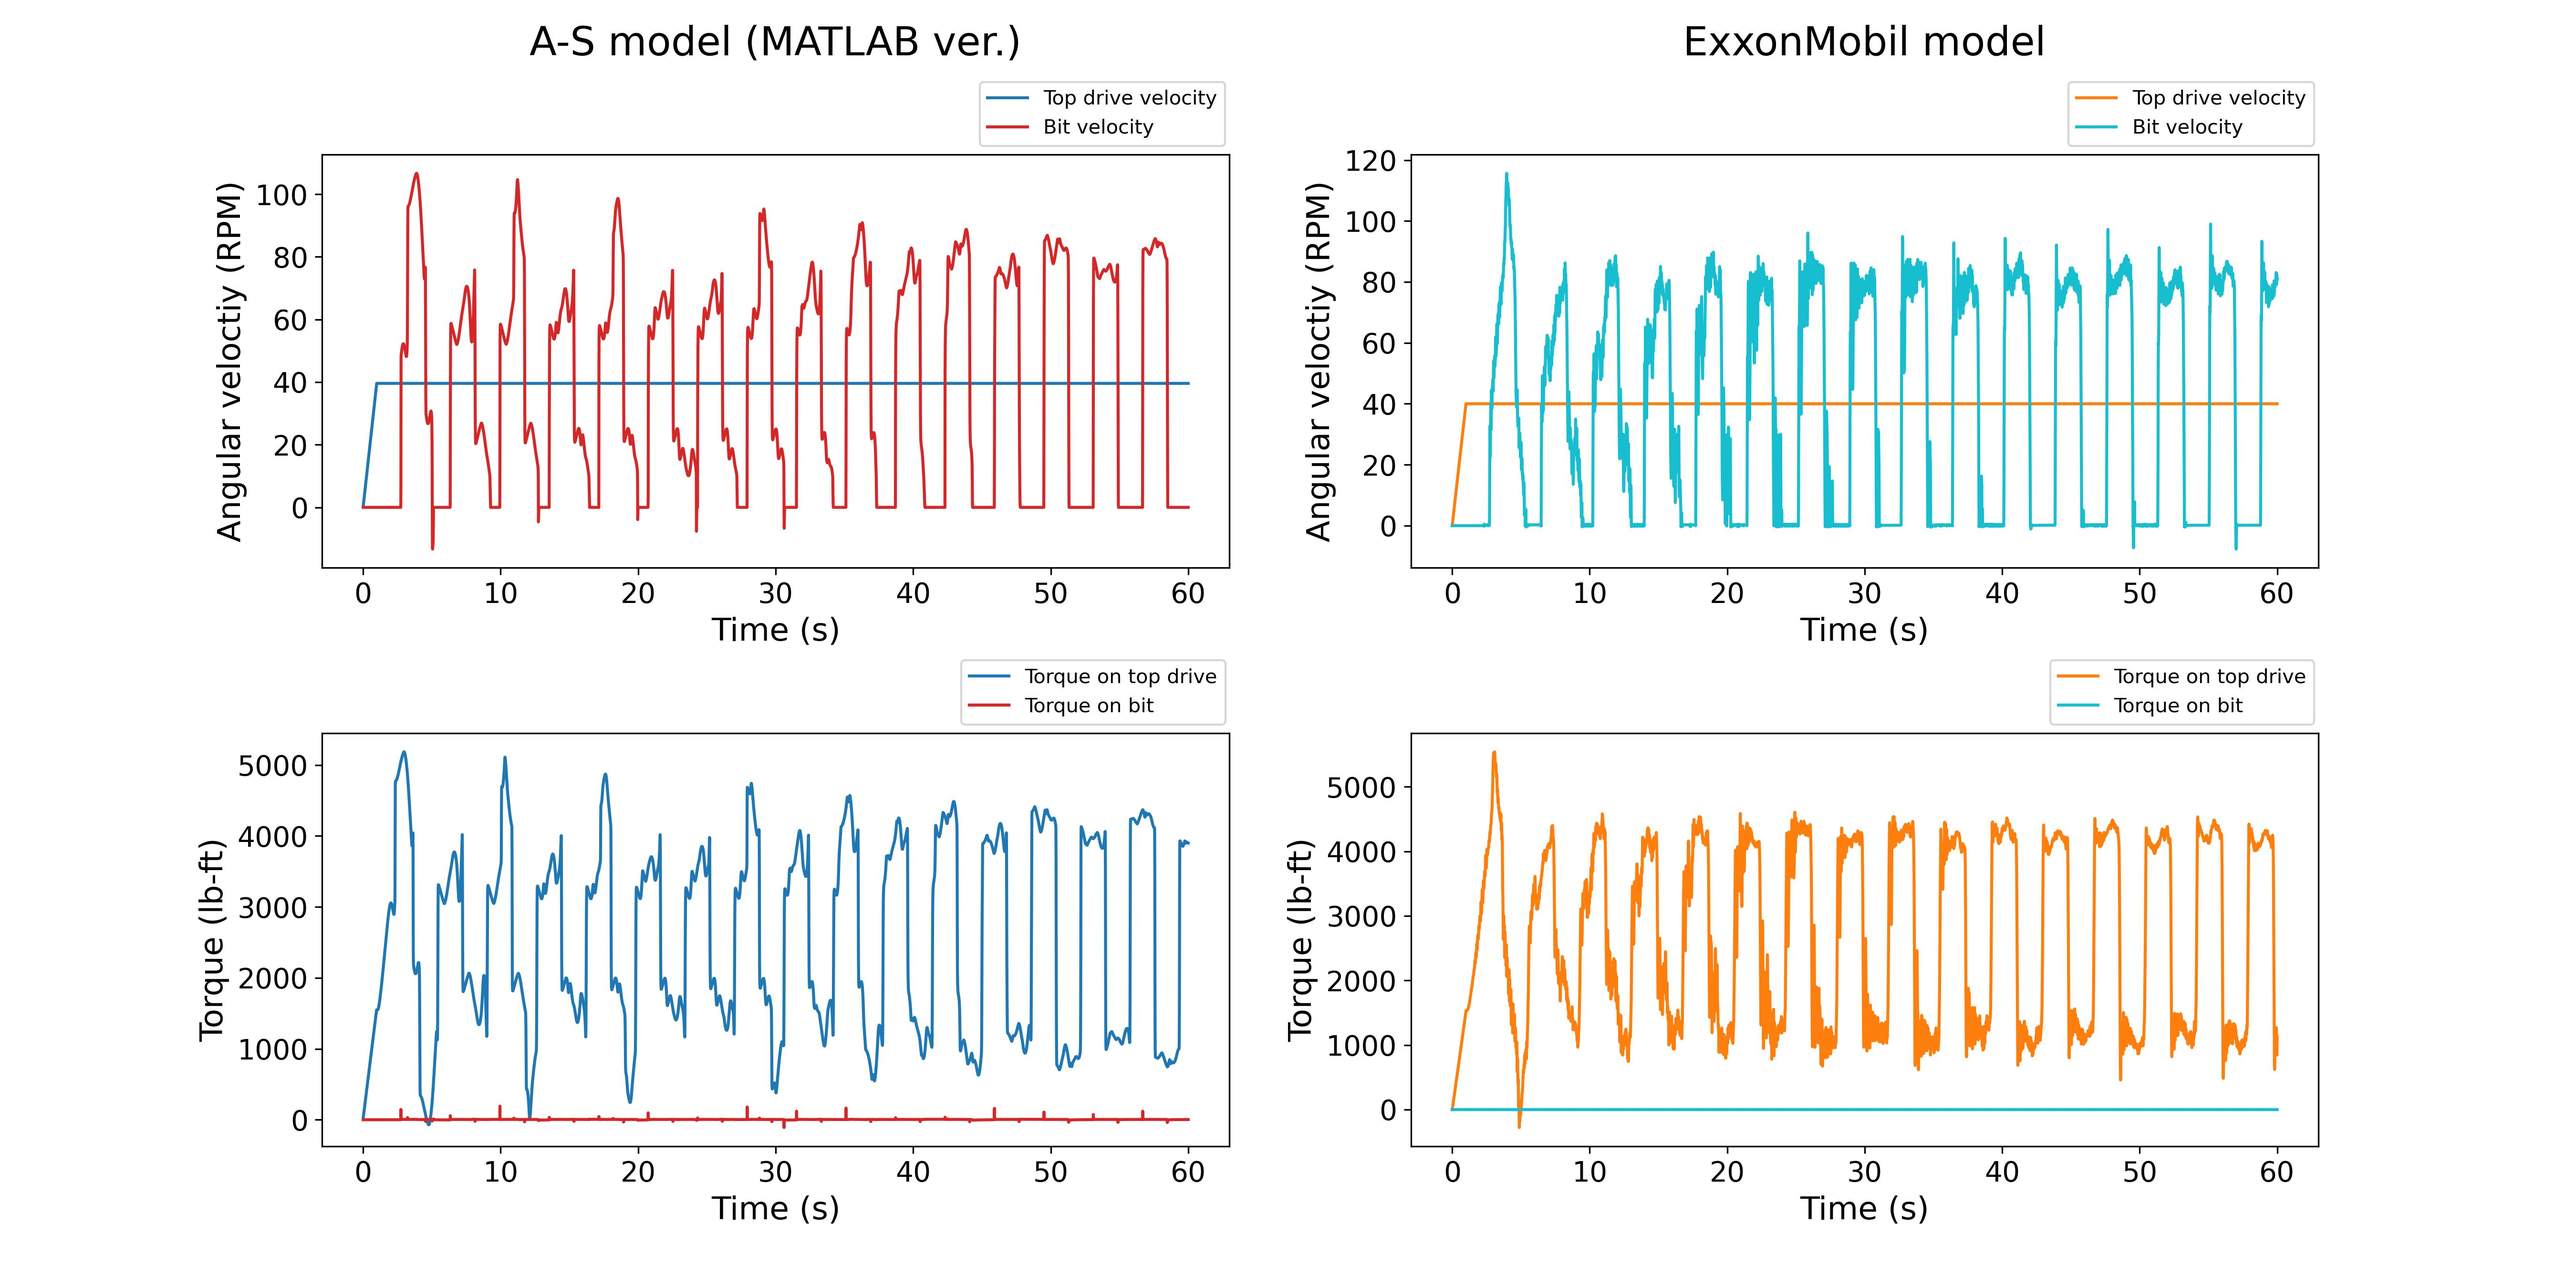
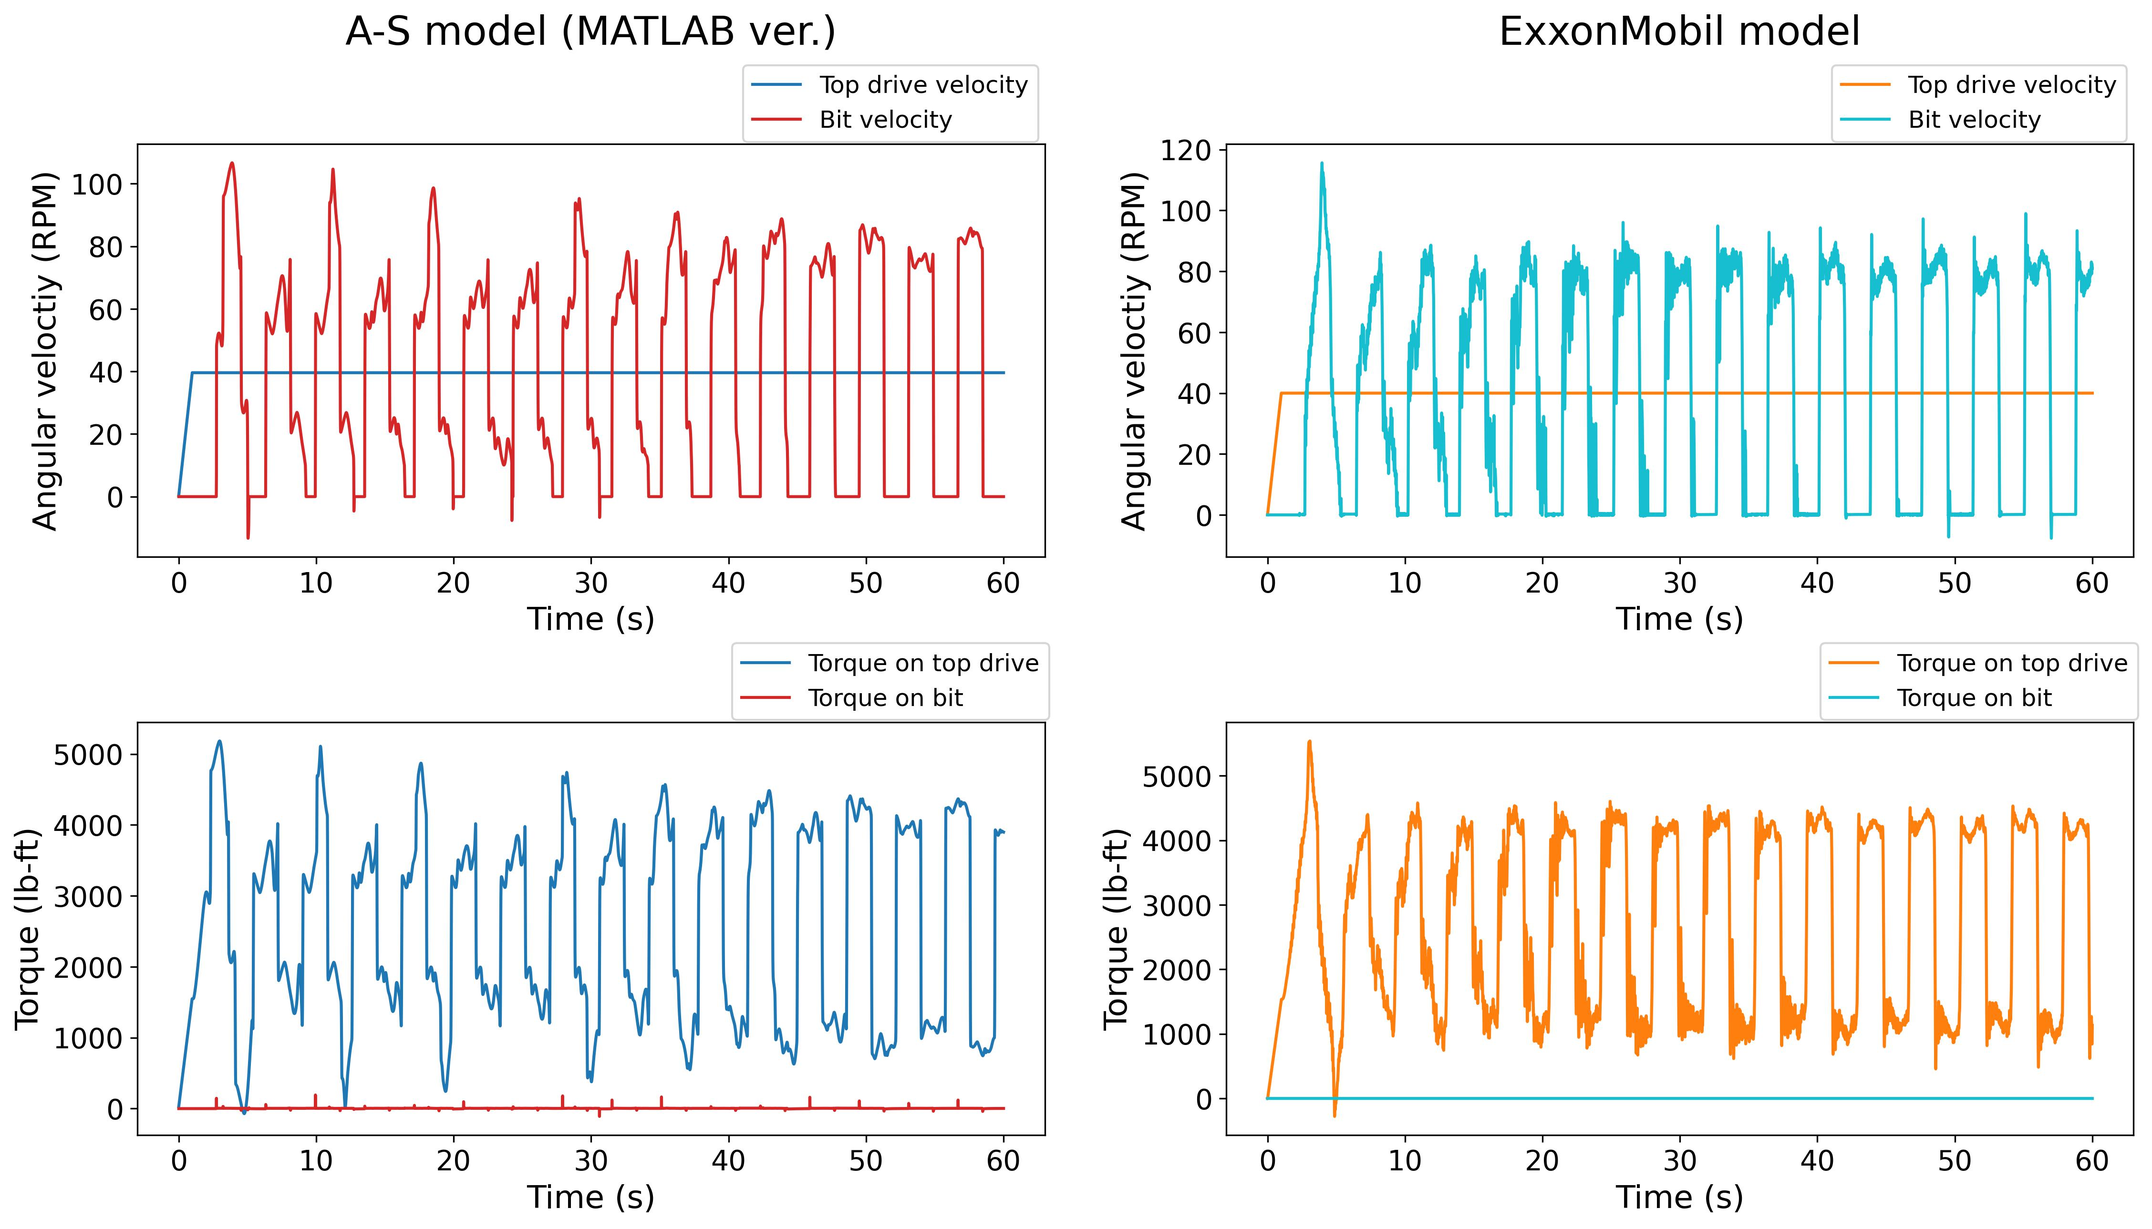
Figures modified, working on results

diff --git a/src/Aarsnes-Shor Model.tex b/src/Aarsnes-Shor Model.tex
@@ -44,7 +44,7 @@ The Coulomb friction $\mathcal{F}(w,x)$ is modeled as an inclusion which is show
   \end{cases}
 \end{equation}
 where $w_c$ is the angular velocity threshold for Coulomb friction transition from static to dynamic, $F_d$ and $F_c$ are dynamic and static Coulomb torque, respectively. For condition $|w|<w_c$, $\mathcal{F}(w,x)$ takes the boundary values $\pm F_C(x)$.
-\begin{figure}[!hpt]
+\begin{figure}
   \centering
   \includegraphics[width=2.5in]{AS_parameters}
   \caption[Schematic of distributed drill string in deviated well]{Schematic of distributed drill string in deviated well and indication of parameters used in the equations \cite{ref:aarsnes2017a}.}\label{figure_AS_equation_schematic}
@@ -117,7 +117,7 @@ Additionally, the conditions at the drill pipe - drill collar interface are impo
   w_{p,interface} = w_{c,interface}, \quad \tau_{p,interface} = \tau_{c,interface}
 \end{equation}
 The boundary and interface condition is then expressed for $\alpha$, and $\beta$. \figurename~\ref{AS_discretizeDS} illustrates the schematic view of the discretized drillstring with boundary conditions, and interface conditions in terms of Riemann invariants.
-\begin{figure}[!hbt]
+\begin{figure}
   \centering
   \includegraphics[width=5in]{AS_discretizedDS}
   \caption[Schematic of discretized drillstring and boundary conditions]{Schematic of discretized drillstring, boundary conditions, and interface conditions based on Riemann invariants $\alpha$, and $\beta$.}\label{AS_discretizeDS}
@@ -198,7 +198,7 @@ PYTHON ver.\ directly solves the \equationname~\ref{AS-motion}, and \ref{AS-moti
 \end{code}
 \popinitialcodeindent{}
 
-\begin{table}[!hbt]
+\begin{table}
 \centering
 \begin{tabularx}{\linewidth-0.75in}{|c|c|L|}
 \hline
@@ -272,15 +272,15 @@ $J_{TD}$ & $2900 \; lb\cdot ft^2 $ & $ 68818 \; kgm^2$ & Top drive inertia\\
 %\caption[Top drive related parameters for comparison.]{Top drive related parameters for comparison.}\label{table_topdrivesensitivity_input}
 %\end{table}
 
-\begin{figure}[!hbt]
+\begin{figure}
   \centering
-  \includegraphics[width=6.5in]{verticalwell_topdrive_sensitivity}
-  \caption[Comparison of drillstring response to same top drive parameters]{Comparison of top drive and bit responses with same top drive parameters between MATLAB ver.\ and PYTHON ver.\ a): Results from MATLAB ver., and b) : results from PYTHON ver.}\label{figure_topdrive_sensitivity}
+  \includegraphics[width=6.5in]{PI_comp}
+  \caption[Comparison of drillstring response to same top drive parameters]{Comparison of top drive and bit responses with same top drive parameters between MATLAB ver.\ and PYTHON ver.\ First and second columns are results from MATLAB ver., and from PYTHON ver., respectivley}\label{figure_topdrive_sensitivity}
 \end{figure}
 
 The results implies that, for the further study, exact input parameters are required or the PI-controller should be removed. Therefore, the codes were modified and top drive was removed from the system assuming the fixed velocity at the top of the drill string. Moreover, The modified code enables reducing the parameters of the model for more simple comparison between different models. The flowchart of PI-controller removal is shown in \figurename~\ref{figure_Topdriveremove_math}. 
 
-\begin{figure}[!hbt]
+\begin{figure}
   \centering
   \includegraphics[width=5in]{Topdriveremove_math}
   \caption[flow chart of top drive elimination]{Flow chart of top drive elimination. The modification of the model assumes only drill string in the model and it rotates with given (fixed) velocity at the top of the drill string.}\label{figure_Topdriveremove_math}
@@ -289,27 +289,26 @@ The results implies that, for the further study, exact input parameters are requ
 The comparison of angular velocity and torque of top drive and bit between when the top drive is existed and removed are depicted in \figurename~\ref{figure_topdriveremove_MATLAB} and \ref{figure_topdriveremove} for MATLAB and PYTHON ver, respectively. In the modified code, top drive velocity and torque will refer that of top of the drill string. The original and modified code showed almost the same behavior except during the very first stage when the top drive set point velocity increased from 0 to 40 RPM (0 to 1 second). The spikes can be seen when the top drive includes PI-controller. Additionally, the decaying of the vibration amplitude was observed when the simulation was run with PI controller, which can be clearly seen in the MATLAB ver.\ This is due to the damping effect from the PI controller while controlling the top drive velocity and it eventually converges the vibration. In summary, There are mainly two advantages of removing the PI controller in this project: 1) Obtain model with reduced parameters 2) Remove damping effect from the PI-controller. However, if the PI controller is available in the rig, simulation with PI controller can provide more accurate results for field application.
 \begin{figure}
   \centering
-  \includegraphics[width=6in]{Topdriveremove_MATLAB}
-  \caption[comparison between with and without top drive: Matlab ver]{Comparison of the angular velocity and torque of the top drive and bit when top drive with and without top drive in MATLAB ver.\ a): Response with top drive, b): response without top drive (only drill string).}\label{figure_topdriveremove_MATLAB}
+  \includegraphics[width=6.5in]{PI_matlab}
+  \caption[comparison between with and without top drive: Matlab ver]{Comparison of the angular velocity and torque of the top drive and bit when top drive with and without PI controller in top drive in A-S model, MATLAB ver.\ First and second columns represent the results with and without PI controller.}\label{figure_topdriveremove_MATLAB}
 \end{figure}
 
 \begin{figure}
   \centering
-  \includegraphics[width=6in]{Topdriveremove}
-  \caption[comparison between with and without top drive: PYTHON ver]{Comparison of the angular velocity and torque of the top drive and bit when top drive with and without top drive in PYTHON ver.\ a): Response with top drive, b): response without top drive (only drill string).}\label{figure_topdriveremove}
+  \includegraphics[width=6.5in]{PI_python}
+  \caption[comparison between with and without top drive: PYTHON ver]{Comparison of the angular velocity and torque of the top drive and bit when top drive with and without PI controller in top drive in A-S model, PYTHON ver.\ First and second columns represent the results with and without PI controller.}\label{figure_topdriveremove}
 \end{figure}
 
 \subsection{Comparison between MATLAB and PYTHON ver.}
 The model of MATLAB ver.\ and PYTHON ver.\ were compared before conducting the tests to validate the model. The comparison was conducted with Test case 1 scenario. The PYTHON ver.\ showed different patterns of bit and topdrive compared to MATLAB ver.\ there was a period where bit angular velocity and top drive torque maintained at maximum value for about 2 seconds. The comparison between the MATLAB and PYTHON ver.\ can be seen in \figurename~\ref{figure_Test1_comp_chASmodel} with results from ExxonMobil model for reference. The PYTHON ver.\ showed different results, which assumed to be caused by the difference in wave travel velocity along the drill string, which is proportional to $\sqrt{\rho/J}$. By decreasing the density to $1/4$ of the default input ($490.50 lb/ft^3 \rightarrow 122.65 lb/ft^3$), PYTHON ver.\, similar result to MATLAB ver.\ and Exxonmobil ver.\ was obtained. (\figurename~\ref{figure_PYTHON_reducedDensity}). The modification of the PYTHON code has not been made yet. Therefore, only MATLAB ver.\ AS model and ExxonMobil model will be used for the final results and discussions in \chaptername~\ref{ch:results}.
 
-\newpage
-\begin{figure}[!hbt]
+\begin{figure}
   \centering
-  \includegraphics[width=6.5in]{Test1_comp_chASmodel}
-  \caption[Comparison between different models for Test case 1]{Comparison of top drive and bit angular velocity and torque between A-S model MATLAB, PYTHON ver.\ and Exxonmobil model for Test case 1.}\label{figure_Test1_comp_chASmodel}
+  \includegraphics[height=4.5in]{version_comp}
+  \caption[Comparison between different models for Test case 1]{Comparison of angular velocity of bit and top drive between A-S model MATLAB, PYTHON ver.\ and ExxonMobil model for Test case 1.}\label{figure_Test1_comp_chASmodel}
 \end{figure}
 
-\begin{figure}[!hbt]
+\begin{figure}
   \centering
   \includegraphics[width=6.5in]{PYTHON_reducedDensity}
   \caption[Effect of density to PYTHON ver.\ for Test case 1]{Effect of density to PYTHON ver.\ for Test case 1.\ a): $\rho=409.5\;lb/ft^3$, and b): $\rho=122.65\;lb/ft^3$.}\label{figure_PYTHON_reducedDensity}

diff --git a/src/Results and Comparisons.tex b/src/Results and Comparisons.tex
@@ -26,7 +26,7 @@ The results for Test case 2a from each model are depicted in \figurename~\ref{fi
 \begin{figure}
   \centering
   \includegraphics[width=6.5in]{overlapped_figureTestCase2_1}
-  \caption{}\label{figure_testcase2_1_overlapped}
+  \caption[Comparison of the results for Test Case 2a]{Comparison between the results from A-S model (MATLAB ver.) and ExxonMobil model for Test Case 2a.}\label{figure_testcase2_1_overlapped}
 \end{figure}
 
 
@@ -38,13 +38,13 @@ The fundamental frequencies of the vibration were 0.28 and 0.27 for A-S model an
 \begin{figure}
   \centering
   \includegraphics[width=6.5in]{output_figureTestCase2_2}
-  \caption{}\label{figure_testcase2_2}
+  \caption[Results of Test Case 2b]{Results of Test Case 2b. First and second columns show the results from A-S model (MATLAB ver./) and ExxonMobil model, respectively.}\label{figure_testcase2_2}
 \end{figure}
 
 \begin{figure}
   \centering
   \includegraphics[width=6.5in]{overlapped_figureTestCase2_2}
-  \caption{}\label{figure_testcase2_2_overlapped}
+  \caption[Comparison of the results for Test Case 2b]{Comparison between the results from A-S model (MATLAB ver.) and ExxonMobil model for Test Case 2b.}\label{figure_testcase2_2_overlapped}
 \end{figure}
 
 \subsection{Test Case 3}
@@ -55,12 +55,12 @@ Compared to Test Case 1 (without BHA components), the fundamental vibration freq
 \begin{figure}
   \centering
   \includegraphics[width=6.5in]{output_figureTestCase3}
-  \caption{}\label{figure_testcase3}
+  \caption[Results of Test Case 3]{Results of Test Case 2b. First and second columns show the results from A-S model (MATLAB ver./) and ExxonMobil model, respectively.}\label{figure_testcase3}
 \end{figure}
 \begin{figure}
   \centering
   \includegraphics[width=6.5in]{overlapped_figureTestCase3}
-  \caption{}\label{figure_testcase3_overlapped}
+  \caption[Comparison of the results for Test Case 3]{Comparison between the results from A-S model (MATLAB ver.) and ExxonMobil model for Test Case 3.}\label{figure_testcase3_overlapped}
 \end{figure}
 
 \section{Test Case 4}
